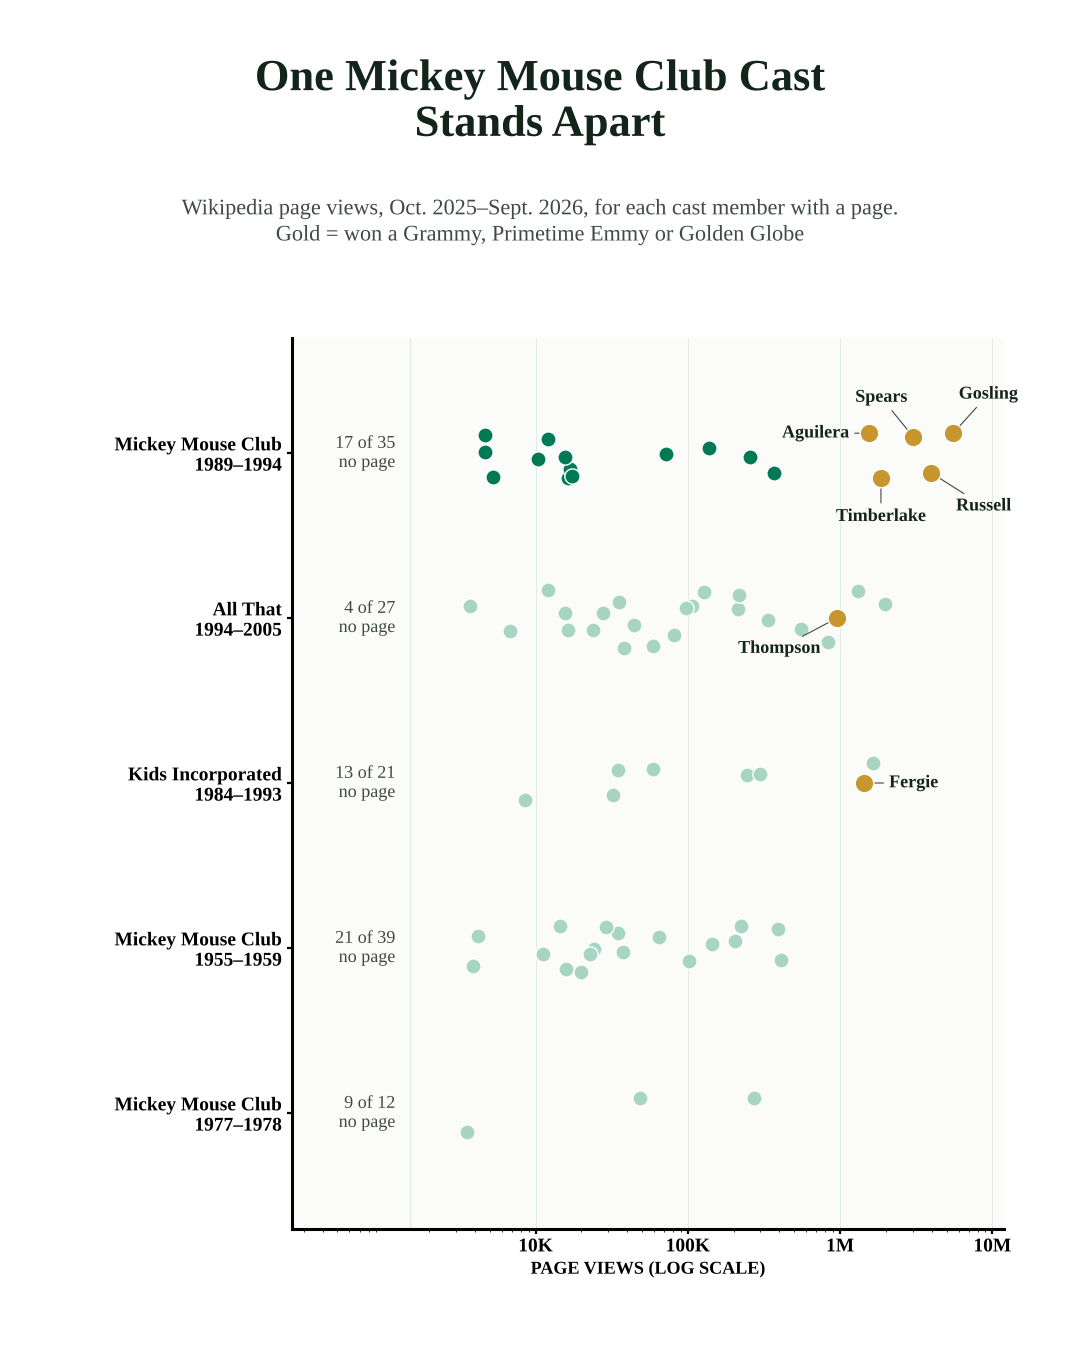
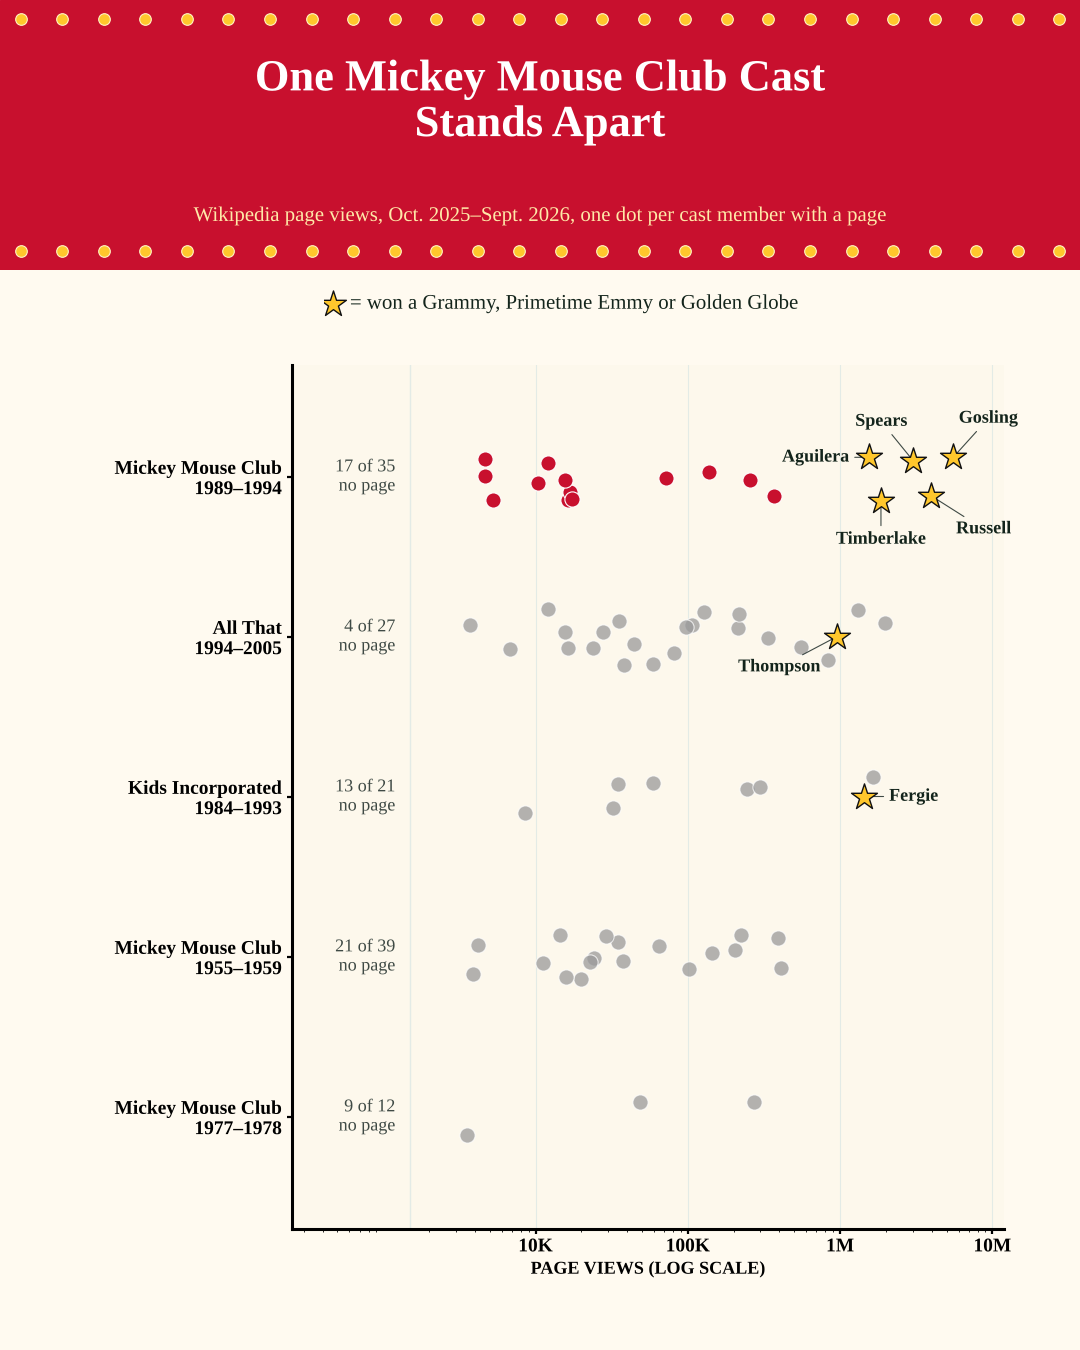
Mickey Mouse Club story: themed main chart, photos in post body
Claude-Session: https://claude.ai/code/session_014ps2HoqtiaDX9KtWWc6m6n

diff --git a/mmc/post-body.html b/mmc/post-body.html
@@ -1,9 +1,11 @@
-<style>.nid-a h2{margin:1.6em 0 .5em}.nid-a .nid-fig{margin:1.6em auto;max-width:620px}.nid-a .nid-fig img{width:100%;height:auto;display:block;border:1px solid #e6e3dd;border-radius:6px}.nid-a .nid-method{font-size:.92em;margin-top:2em}</style><div class="nid-a"><p><a href="https://stories.thenewsindata.com/mmc/"><strong>Scroll through the interactive version of this story →</strong></a></p>
+<style>.nid-a h2{margin:1.6em 0 .5em}.nid-a .nid-fig{margin:1.6em auto;max-width:620px}.nid-a .nid-fig img{width:100%;height:auto;display:block;border:1px solid #e6e3dd;border-radius:6px}.nid-a .nid-photo{max-width:460px}.nid-a .nid-fig figcaption{font-size:.82em;color:#5f7268;margin-top:.5em;line-height:1.4}.nid-a .nid-method{font-size:.92em;margin-top:2em}</style><div class="nid-a"><p><a href="https://stories.thenewsindata.com/mmc/"><strong>Scroll through the interactive version of this story →</strong></a></p>
 <p>Five of the 35 Mouseketeers on Disney's <em>The All-New Mickey Mouse Club</em> from 1989 to 1994 have won a Grammy, a Primetime Emmy or a Golden Globe: Christina Aguilera, Ryan Gosling, Keri Russell, Britney Spears and Justin Timberlake. That is 14% of the cast. Among the 99 performers in the 1955 and 1977 Mickey Mouse Club casts, Nickelodeon's <em>All That</em> and the 1980s and '90s show <em>Kids Incorporated</em>, two have won one of those awards, Fergie and Kenan Thompson.</p>
-<figure class="nid-fig"><img src="https://stories.thenewsindata.com/mmc/mmc-chart.png" alt="Wikipedia page views for 134 child performers from five TV casts. Five Mouseketeers from 1989 to 1994, led by Ryan Gosling at 5.5 million, stand above almost everyone else; half of that cast has no page." width="1080" height="1350"></figure>
+<figure class="nid-fig"><img src="https://stories.thenewsindata.com/mmc/mmc-chart.png?v=2" alt="Wikipedia page views for 134 child performers from five TV casts. Five Mouseketeers from 1989 to 1994, led by Ryan Gosling at 5.5 million, stand above almost everyone else; half of that cast has no page." width="1080" height="1350"></figure>
 <h2>The 1989 cast still draws the most attention</h2>
+<figure class="nid-fig nid-photo"><img src="https://upload.wikimedia.org/wikipedia/commons/thumb/6/62/GoslingBFI081223_%2822_of_30%29_%2853388157347%29_%28cropped%29.jpg/960px-GoslingBFI081223_%2822_of_30%29_%2853388157347%29_%28cropped%29.jpg" alt="Ryan Gosling smiling at a public event" loading="lazy"><figcaption>Ryan Gosling, one of the 1989–1994 Mouseketeers, at the BFI Southbank in London in December 2023. Photo: <a href="https://commons.wikimedia.org/wiki/File:GoslingBFI081223_(22_of_30)_(53388157347)_(cropped).jpg">Raph_PH</a>, <a href="https://creativecommons.org/licenses/by/2.0/">CC BY 2.0</a>, via Wikimedia Commons.</figcaption></figure>
 <p>The 1989 cast's Wikipedia pages drew 16.8 million views from October 2025 through September 2026, 57% of all views for the five casts combined and more than twice the 7.1 million for <em>All That</em>. Gosling's page alone drew 5.5 million, about three times the 1.8 million for all 39 original Mouseketeers combined. Russell drew 4.0 million, Spears 3.0 million, Timberlake 1.9 million and Aguilera 1.5 million.</p>
 <h2>The earlier Mouseketeers found work, but not stardom</h2>
+<figure class="nid-fig nid-photo"><img src="https://upload.wikimedia.org/wikipedia/commons/thumb/a/a2/Mickey_Mouse_Club_Mouseketeers_1957.jpg/960px-Mickey_Mouse_Club_Mouseketeers_1957.jpg" alt="Black-and-white group photo of the original Mouseketeers in their uniforms" loading="lazy"><figcaption>The original Mouseketeers in a publicity photo from about 1956, with Annette Funicello at front left. Photo: Macfadden Publications, public domain, via <a href="https://commons.wikimedia.org/wiki/File:Mickey_Mouse_Club_Mouseketeers_1957.jpg">Wikimedia Commons</a>.</figcaption></figure>
 <p>Johnny Crawford, who went on to co-star in <em>The Rifleman</em>, drew 410,000 views, the most of any Mouseketeer from 1955 to 1959, and Annette Funicello drew 393,000, about one-fourteenth of Gosling's total. Two other original Mouseketeers became regulars on long-running sitcoms, Paul Petersen on <em>The Donna Reed Show</em> and Don Grady on <em>My Three Sons</em>. From the 12-member 1977 cast, Lisa Whelchel, who later starred in <em>The Facts of Life</em>, is the only member whose page drew more than 50,000 views.</p>
 <h2>Other kids&#x27; shows produced stars too, just fewer</h2>
 <p><em>All That</em> has the highest share of cast members with their own Wikipedia pages, 23 of 27, including Amanda Bynes, Nick Cannon and Thompson. <em>Kids Incorporated</em> produced Fergie and Jennifer Love Hewitt, whose pages each drew more than 1.4 million views. Neither cast had more than two members above 1 million views, compared with five from the 1989 Mickey Mouse Club.</p>
